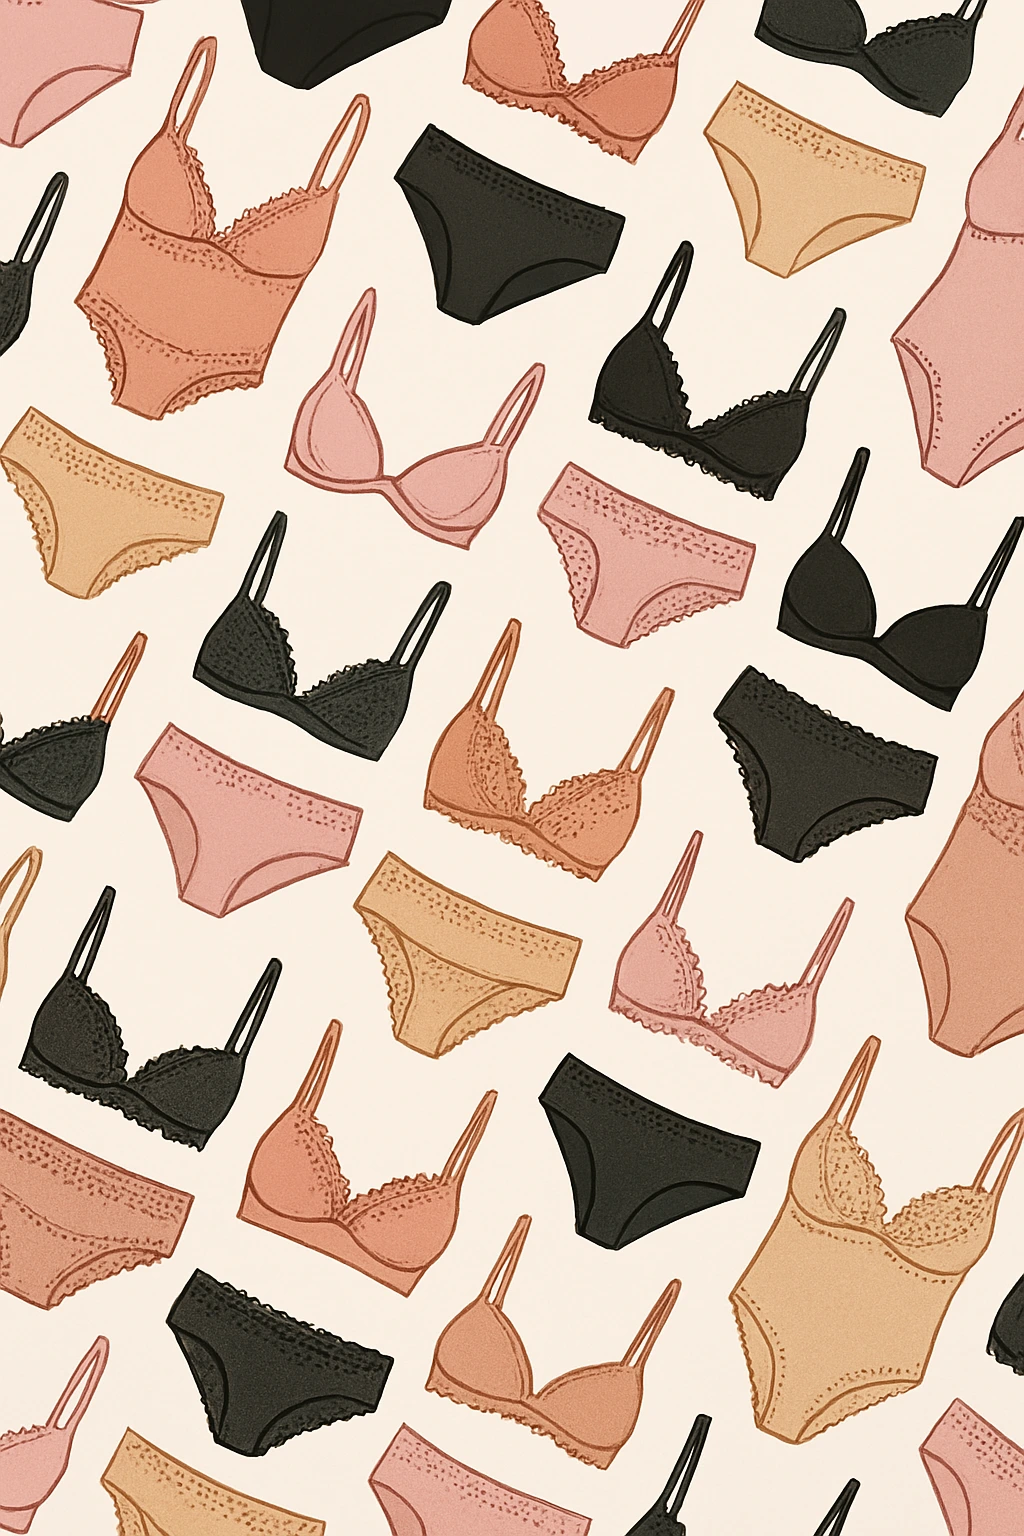
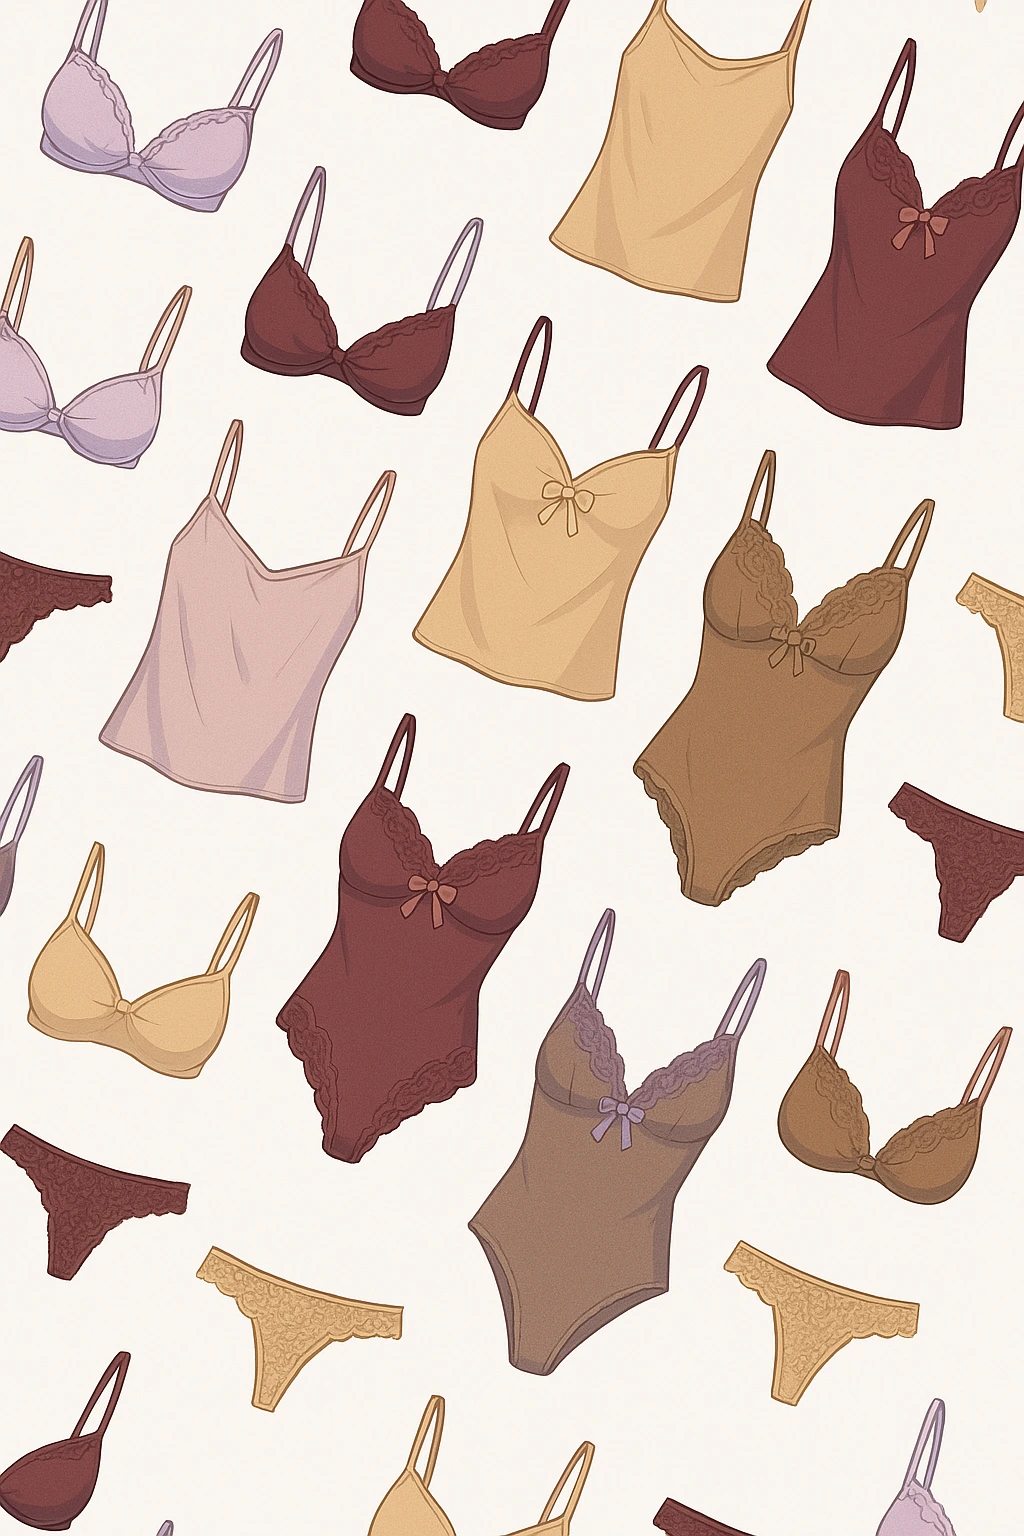
Se empieza a trabajar en el formulario, se crean unas primeras funciones para escuchar los valores del formulario y su controlador

diff --git a/lib/widgets/signup/register_form.dart b/lib/widgets/signup/register_form.dart
@@ -3,7 +3,6 @@ import 'dart:developer';
 
 import 'package:flutter/material.dart';
 import 'package:get/get.dart';
-import 'package:keyboard_avoider/keyboard_avoider.dart';
 import 'package:lingerie_store_project/controllers/signup.dart';
 import 'package:lingerie_store_project/widgets/buttons/extended.dart';
 import 'package:lingerie_store_project/widgets/signup/form_text_field.dart';
@@ -42,33 +41,39 @@ class _PersonalDataFormState extends State<PersonalDataForm> {
 
     return Form(
       key: formKey,
-      child: KeyboardAvoider(
+      child: SingleChildScrollView(
+        physics: NeverScrollableScrollPhysics(),
         child: Column(
           spacing: 8,
           mainAxisAlignment: MainAxisAlignment.center,
           crossAxisAlignment: CrossAxisAlignment.center,
           children: [
-            CustomTextField(
-              key: textFieldKey,
-              controller: controller.nameController,
-              validator: controller
-                  .validateName, // Llamamos al controlador para la validación
-              labelText: "Nombres",
-              hintText: "Ingresa tu nombre",
-              icon: controller.nameIcon, // Pasamos el ícono dinámico
-              errorMessage:
-                  controller.validateName(controller.nameController.text),
-            ),
-            CustomTextField(
-              controller: controller.lastNameController,
-              validator: controller
-                  .validateName, // Llamamos al controlador para la validación
-              labelText: "Apellidos",
-              hintText: "Apellidos",
-              icon: controller.lastNameIcon, // Pasamos el ícono dinámico
-              errorMessage:
-                  controller.validateName(controller.lastNameController.text),
-            ),
+            Obx(() {
+              return CustomTextField(
+                key: textFieldKey,
+                controller: controller.nameController,
+                validator: controller
+                    .validateName, // Llamamos al controlador para la validación
+                labelText: "Nombres",
+                hintText: "Ingresa tu nombre",
+                icon: controller.nameIcon.value, // Pasamos el ícono dinámico
+                errorMessage:
+                    controller.validateName(controller.nameController.text),
+              );
+            }),
+            Obx(() {
+              return CustomTextField(
+                controller: controller.lastNameController,
+                validator: controller
+                    .validateLastName, // Llamamos al controlador para la validación
+                labelText: "Apellidos",
+                hintText: "Ingresa tu apellido",
+                icon:
+                    controller.lastNameIcon.value, // Pasamos el ícono dinámico
+                errorMessage: controller
+                    .validateLastName(controller.lastNameController.text),
+              );
+            }),
             CustomTextField(
               controller: controller.birthdateController,
               validator: controller
@@ -85,9 +90,10 @@ class _PersonalDataFormState extends State<PersonalDataForm> {
                 );
                 controller.birthdateController.text = pickedDate != null
                     ? "${pickedDate.day}/${pickedDate.month}/${pickedDate.year}"
-                    : "No haz seleccionado ninguna fecha";
+                    : "";
+                log(controller.birthdateController.text);
               },
-              icon: controller.birthdateIcon, // Pasamos el ícono dinámico
+              icon: controller.birthdateIcon.value, // Pasamos el ícono dinámico
               errorMessage: controller
                   .validateBirthdate(controller.birthdateController.text),
             ),
@@ -139,7 +145,11 @@ class _PersonalDataFormState extends State<PersonalDataForm> {
                 ExtendedButton(
                   buttonLabel: "Continuar",
                   onPressed: () {
-                    if (formKey.currentState!.validate()) {
+                    if (controller.name.value.isEmpty ||
+                        controller.lastName.value.isEmpty) {
+                      Get.snackbar("Información incompleta",
+                          "Por favor completa la información requerida");
+                    } else if (formKey.currentState!.validate()) {
                       final user = controller.getUserData();
                       log("Nombre: ${user.name}");
                       log("Apellido: ${user.lastName}");

diff --git a/lib/widgets/signup/form_text_field.dart b/lib/widgets/signup/form_text_field.dart
@@ -1,5 +1,4 @@
 import 'package:flutter/material.dart';
-import 'package:get/get.dart';
 
 class CustomTextField extends StatelessWidget {
   final String labelText;
@@ -7,11 +6,12 @@ class CustomTextField extends StatelessWidget {
   final Widget? prefixIcon;
   final Widget? suffixIcon;
   final TextEditingController controller;
-  final FormFieldValidator<String>? validator;  // Cambiar el tipo aquí
+  final FormFieldValidator<String>? validator;
   final bool? readOnly;
   final GestureTapCallback? onTap;
+  final void Function(String)? onChanged;
   final String? errorMessage;
-  final Rx<IconData> icon;  // Añadimos un campo para el ícono
+  final IconData icon;
 
   const CustomTextField({
     super.key,
@@ -23,39 +23,42 @@ class CustomTextField extends StatelessWidget {
     this.validator,
     this.readOnly,
     this.onTap,
+    this.onChanged,
     this.errorMessage,
-    required this.icon, // Recibimos el ícono dinámico
+    required this.icon,
   });
 
   @override
   Widget build(BuildContext context) {
-    return Obx(() {
-      return TextFormField(
-        onTap: onTap ?? () {},
-        controller: controller,
-        readOnly: readOnly ?? false,
-        decoration: InputDecoration(
-          labelText: labelText,
-          hintText: hintText,
-          prefixIcon: prefixIcon ?? Icon(Icons.person),
-          suffixIcon: errorMessage == null
-              ? Icon(icon.value)  // Cambiamos el ícono dependiendo de la validez
-              : Icon(icon.value, color: Colors.amber), // Icono de advertencia
-          border: OutlineInputBorder(
-            borderRadius: BorderRadius.circular(12),
-            borderSide: BorderSide(color: AppBarTheme.of(context).shadowColor!),
-          ),
-          focusedBorder: OutlineInputBorder(
-            borderRadius: BorderRadius.circular(12),
-            borderSide: BorderSide(color: Colors.deepPurple, width: 2),
-          ),
-          filled: true,
-          fillColor: Theme.of(context).appBarTheme.backgroundColor,
+    return TextFormField(
+      onTap: onTap ?? () {},
+      onChanged: onChanged ?? (value) {},
+      controller: controller,
+      readOnly: readOnly ?? false,
+      decoration: InputDecoration(
+        labelText: labelText,
+        hintText: hintText,
+        prefixIcon: prefixIcon ?? Icon(Icons.person),
+        suffixIcon: errorMessage == null
+            ? Icon(
+                icon,
+                color: Colors.blueAccent,
+              ) // Se cambia el ícono de forma reactiva dependiendo si el valor en el campo es válido
+            : Icon(icon, color: Colors.amber), // Icono de advertencia
+        border: OutlineInputBorder(
+          borderRadius: BorderRadius.circular(12),
+          borderSide: BorderSide(color: AppBarTheme.of(context).shadowColor!),
         ),
-        style: TextStyle(
-            fontSize: 18, color: Theme.of(context).appBarTheme.foregroundColor),
-        validator: validator, // Cambiar a validator
-      );
-    });
+        focusedBorder: OutlineInputBorder(
+          borderRadius: BorderRadius.circular(12),
+          borderSide: BorderSide(color: Colors.deepPurple, width: 2),
+        ),
+        filled: true,
+        fillColor: Theme.of(context).appBarTheme.backgroundColor,
+      ),
+      style: TextStyle(
+          fontSize: 18, color: Theme.of(context).appBarTheme.foregroundColor),
+      validator: validator,
+    );
   }
 }

diff --git a/lib/controllers/signup.dart b/lib/controllers/signup.dart
@@ -85,6 +85,38 @@ class PersonalDataFormController extends GetxController {
   Rx<IconData> lastNameIcon = Icons.person_outline.obs;
   Rx<IconData> birthdateIcon = Icons.calendar_today_outlined.obs;
 
+  @override
+  void onInit() {
+    super.onInit();
+
+    name.value = nameController.text;
+    lastName.value = lastNameController.text;
+    birthDay.value = birthdateController.text;
+    gender.value = genderController.text;
+
+    nameController.addListener(() {
+      name.value = nameController.text;
+      validateName(name.value);
+      log('Nombre: ${name.value}\nÍcono: ${nameIcon.value} ');
+    });
+    lastNameController.addListener(() {
+      lastName.value = lastNameController.text;
+      validateLastName(lastName.value);
+      log('Apellido: ${lastName.value}\nÍcono: ${lastNameIcon.value} ');
+    });
+    birthdateController
+        .addListener(() => birthDay.value = birthdateController.text);
+    genderController.addListener(() => gender.value = genderController.text);
+  }
+
+  @override
+  void onClose() {
+    nameController.dispose();
+    lastNameController.dispose();
+    birthdateController.dispose();
+    super.dispose();
+  }
+
   UserModel getUserData() {
     DateTime? birthday;
     try {
@@ -126,9 +158,26 @@ class PersonalDataFormController extends GetxController {
     return null;
   }
 
+  String? validateLastName(String? value) {
+    if (value == null || value.trim().isEmpty) {
+      lastNameIcon.value = Icons.warning_amber_rounded;
+      return 'Campo obligatorio';
+    }
+    if (!RegExp(r"^[a-zA-ZáéíóúÁÉÍÓÚüÜñÑ\s]+$").hasMatch(value)) {
+      lastNameIcon.value = Icons.warning_amber_rounded;
+      return 'Solo letras y espacios';
+    }
+    if (value.trim().length < 2) {
+      lastNameIcon.value = Icons.warning_amber_rounded;
+      return 'Mínimo 2 caracteres';
+    }
+    lastNameIcon.value = Icons.check_circle;
+    return null;
+  }
+
   String? validateBirthdate(String? value) {
     if (value == null || value.trim().isEmpty) {
-      birthdateIcon.value = Icons.calendar_today_outlined;
+      birthdateIcon.value = Icons.calendar_month;
       return null;
     }
     try {
@@ -139,18 +188,18 @@ class PersonalDataFormController extends GetxController {
         int.parse(parts[0]),
       );
       if (date.isAfter(DateTime.now())) {
-        birthdateIcon.value = Icons.warning_amber_rounded;
+        // birthdateIcon.value = Icons.warning_amber_rounded;
         return 'No puede ser una fecha futura';
       }
       if (date.isBefore(DateTime(1900))) {
-        birthdateIcon.value = Icons.warning_amber_rounded;
+        // birthdateIcon.value = Icons.warning_amber_rounded;
         return 'Fecha inválida';
       }
     } catch (_) {
-      birthdateIcon.value = Icons.warning_amber_rounded;
+      // birthdateIcon.value = Icons.warning_amber_rounded;
       return 'Formato inválido';
     }
-    birthdateIcon.value = Icons.check_circle;
+    birthdateIcon.value = Icons.calendar_month;
     return null;
   }
 }

diff --git a/lib/pages/signup.dart b/lib/pages/signup.dart
@@ -18,7 +18,8 @@ class SignupPage extends StatelessWidget {
         key: scaffoldKey,
         resizeToAvoidBottomInset: false,
         appBar: AppBar(
-          toolbarHeight: 1,
+          toolbarHeight: 0,
+          elevation: 0,
         ),
         body: Stack(
           children: [
@@ -42,8 +43,10 @@ class SignupPage extends StatelessWidget {
                         return FadeInAnimation(
                           milliseconds: 500,
                           child: RepaintBoundary(
-                            child: Center( /// Se centra desde esta parte para que las pantallas que se agreguen estén centradas por defecto.
-                              child: SingleChildScrollView( /// Este Widget impide que se modifique la pantalla cuando se abra el teclado virtual del celular.
+                            child: Center(
+                              /// Se centra desde esta parte para que las pantallas que se agreguen estén centradas por defecto.
+                              child: SingleChildScrollView(
+                                /// Este Widget impide que se modifique la pantalla cuando se abra el teclado virtual del celular.
                                 child: controller.pages[index],
                               ),
                             ),

diff --git a/lib/main.dart b/lib/main.dart
@@ -6,9 +6,6 @@ import 'package:lingerie_store_project/layout/themes.dart';
 import 'package:lingerie_store_project/pages/loading.dart';
 
 void main() {
-  /// Se asegura que la aplicación halla iniciado
-  WidgetsFlutterBinding.ensureInitialized();
-
   /// Para Android:
   /// Establece el color de la barra superior y la barra virtual de los botones.
   SystemChrome.setSystemUIOverlayStyle(
